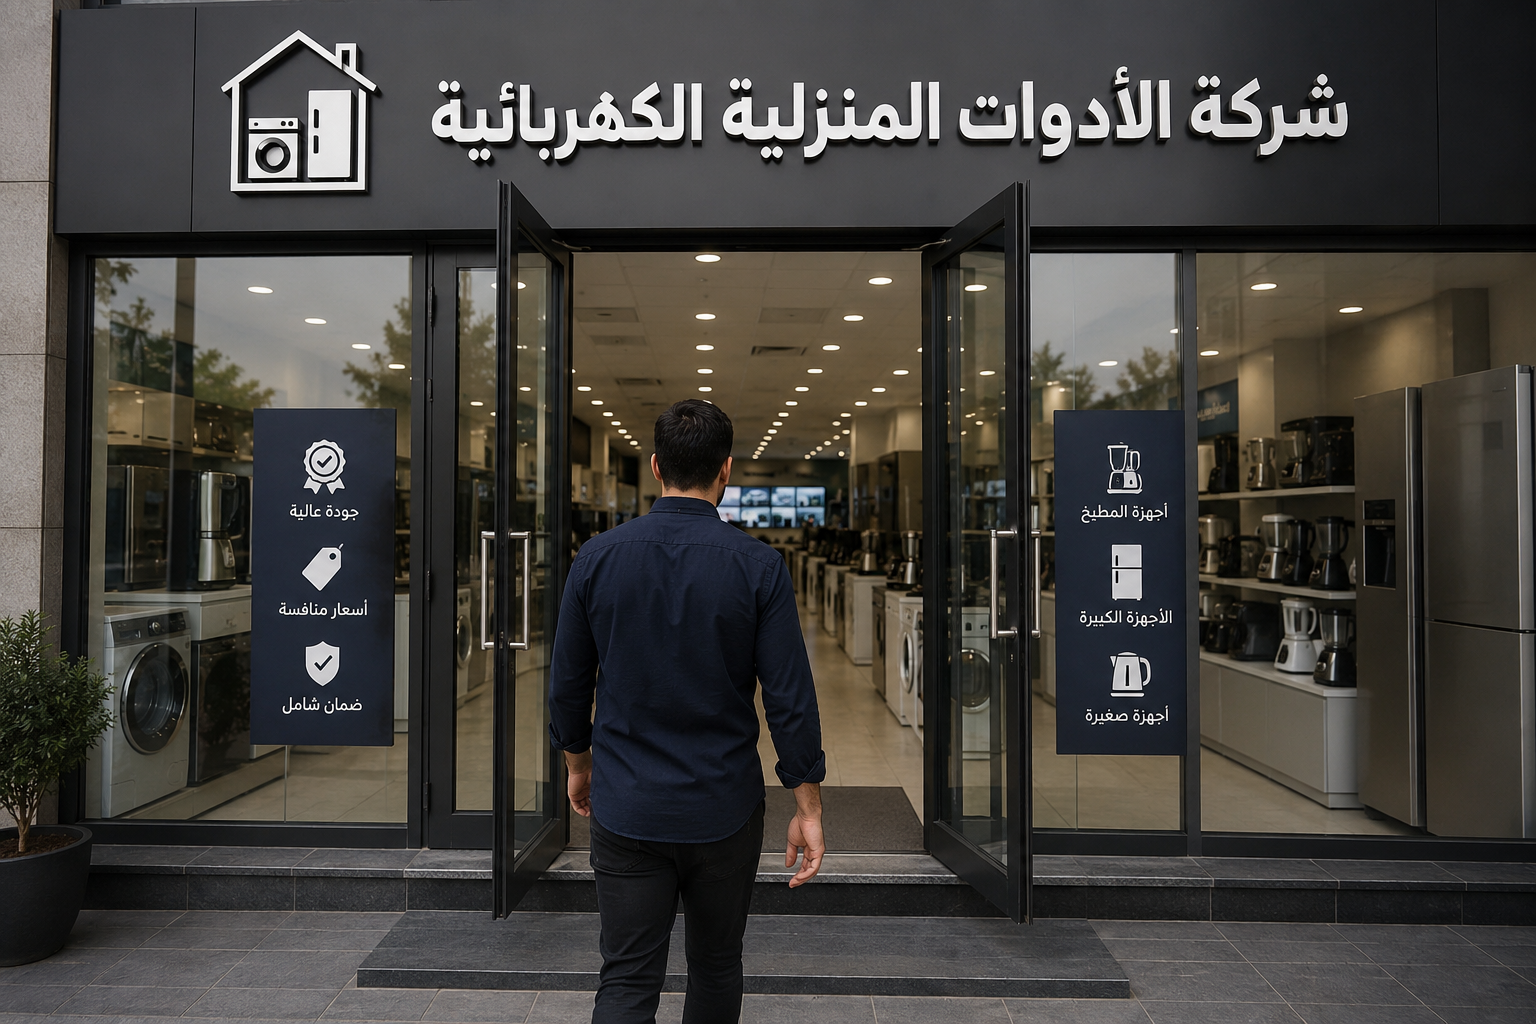
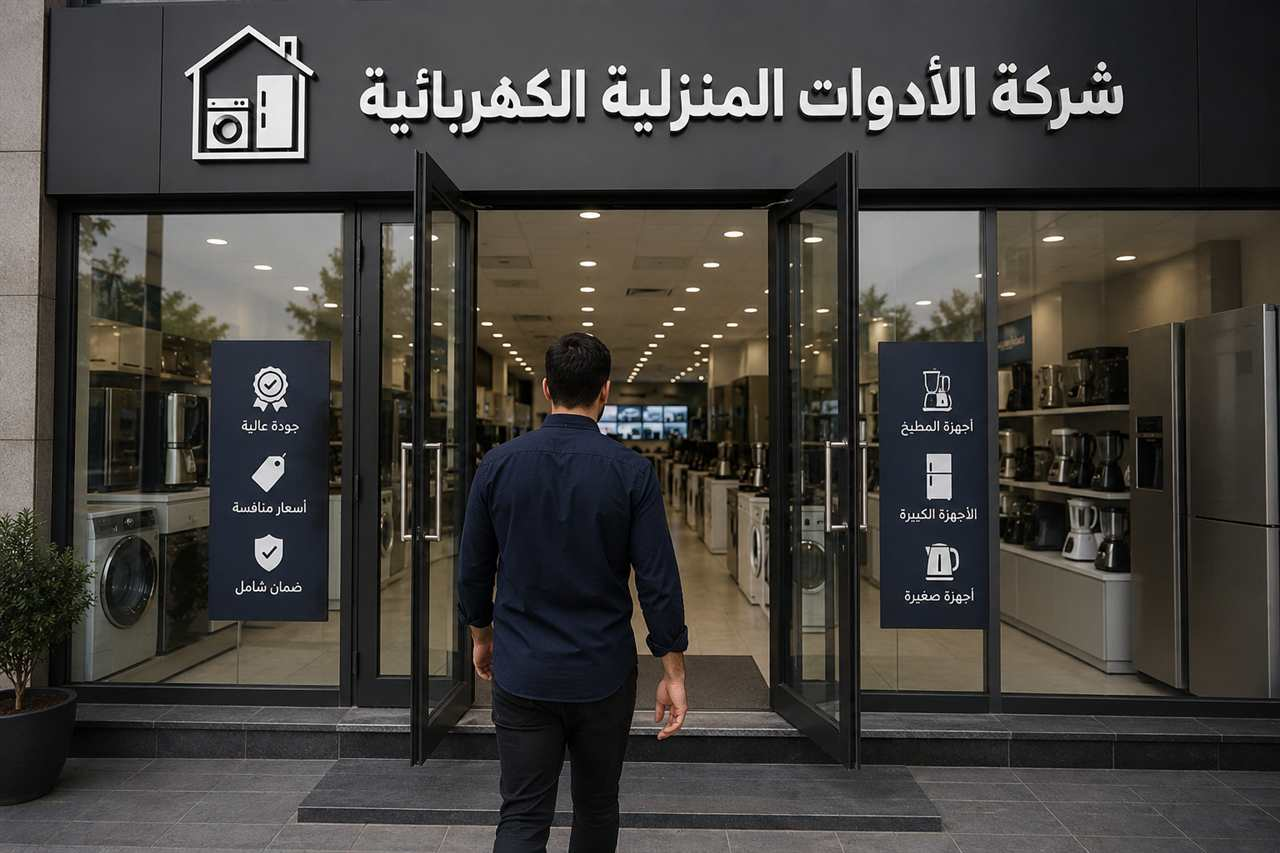
...

diff --git a/vite.config.ts b/vite.config.ts
@@ -15,6 +15,9 @@ export default defineConfig({
     host: true,
   },
   build: {
+    // Source maps fix the "Missing source maps" Best Practices audit.
+    // They're only fetched by devtools, never by normal users.
+    sourcemap: true,
     rollupOptions: {
       output: {
         manualChunks(id) {
